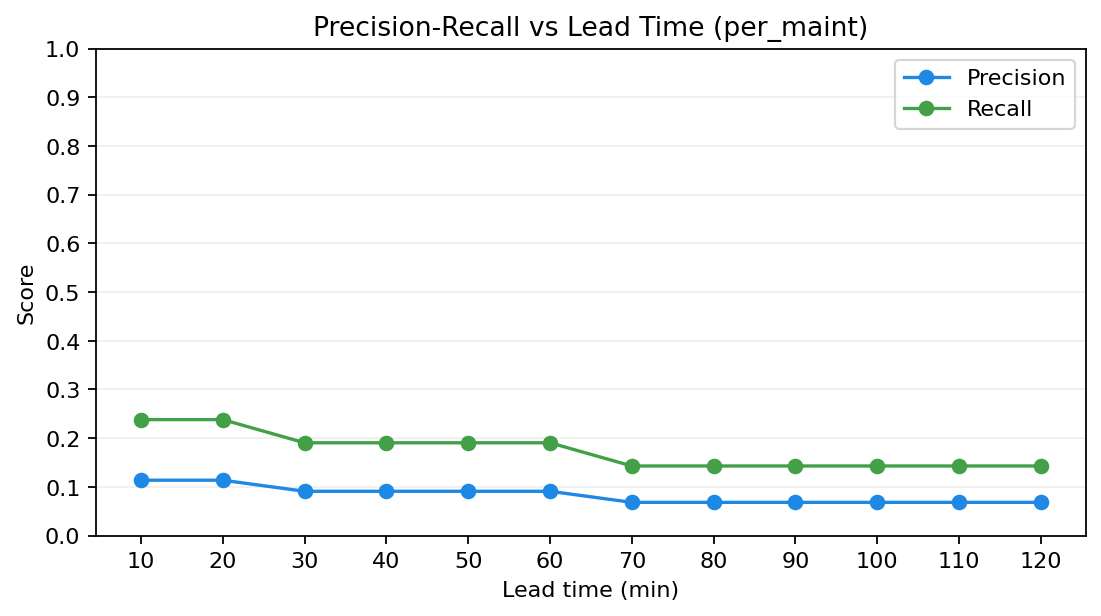
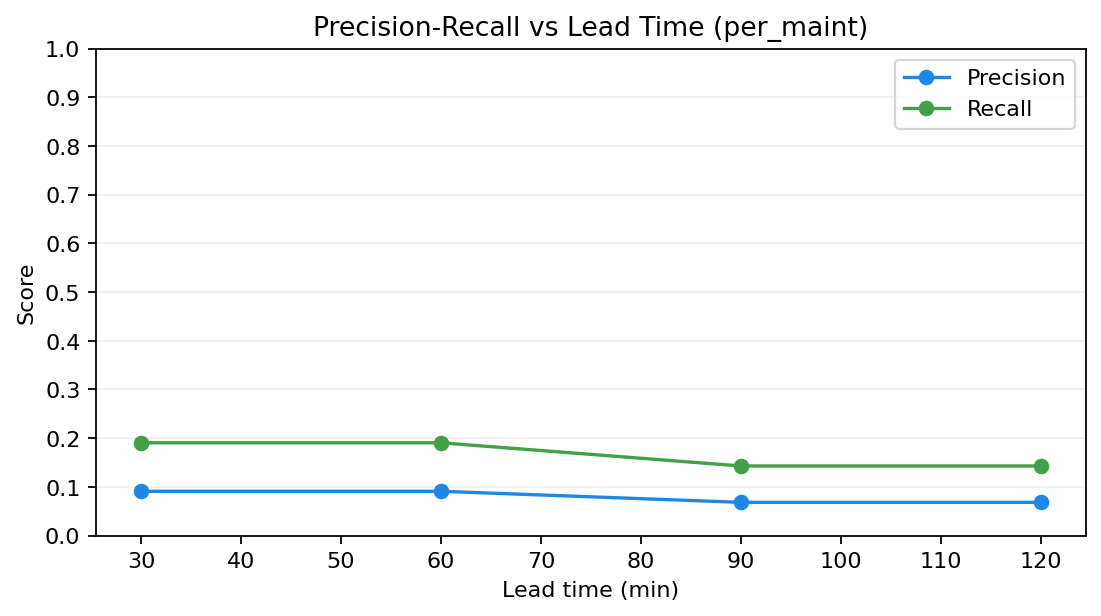
Add NAB score calculation: implement normalized anomaly benchmark scoring, integrate multiple profile evaluations (standard, low_fp, low_fn), update metrics logging, and adjust lead-time step size to 30 minutes.

diff --git a/metrics_event.py b/metrics_event.py
@@ -234,6 +234,83 @@ def calculate_mtia(predictions: pd.Series) -> Dict:
     }
 
 
+def calculate_nab_score(
+    predictions: pd.Series,
+    maintenance_windows: List[Tuple],
+    early_warning_minutes: int,
+    profile: str = "standard",
+) -> Dict:
+    """
+    Calculate NAB score using a strict pre-maintenance window:
+    [maintenance_start - early_warning, maintenance_start].
+    """
+    profiles = {
+        "standard": {"A_tp": 1.0, "A_fp": 0.11, "A_fn": 1.0},
+        "low_fp": {"A_tp": 1.0, "A_fp": 0.22, "A_fn": 1.0},
+        "low_fn": {"A_tp": 1.0, "A_fp": 0.11, "A_fn": 2.0},
+    }
+    if profile not in profiles:
+        raise ValueError(f"Unknown NAB profile: {profile!r}")
+    params = profiles[profile]
+
+    def sigmoid(x: float) -> float:
+        return 1.0 / (1.0 + np.exp(-x))
+
+    windows = _normalize_windows(maintenance_windows)
+    alarm_intervals = _alarm_intervals_from_mask(predictions.astype(bool))
+
+    total_score = 0.0
+    window_scores: List[float] = []
+    used_alarms: set[int] = set()
+
+    for maint_start, maint_end in windows:
+        warning_start = maint_start - pd.Timedelta(minutes=early_warning_minutes)
+        window_size = float(early_warning_minutes)
+
+        best_score = -params["A_fn"]
+        best_alarm_idx: Optional[int] = None
+
+        for idx, (alarm_start, alarm_end) in enumerate(alarm_intervals):
+            if idx in used_alarms:
+                continue
+            # Strict window overlap: [warning_start, maint_start]
+            if alarm_start <= maint_start and alarm_end >= warning_start:
+                detection_time = max(alarm_start, warning_start)
+                relative_pos = (
+                    (detection_time - warning_start).total_seconds() / 60.0 / window_size
+                )
+                score = params["A_tp"] * sigmoid(-5.0 * (relative_pos - 0.5))
+                if score > best_score:
+                    best_score = score
+                    best_alarm_idx = idx
+
+        if best_alarm_idx is not None:
+            used_alarms.add(best_alarm_idx)
+
+        total_score += best_score
+        window_scores.append(best_score)
+
+    # Penalize unused alarm intervals as FP
+    for idx in range(len(alarm_intervals)):
+        if idx not in used_alarms:
+            total_score -= params["A_fp"]
+
+    max_possible = len(windows) * params["A_tp"]
+    min_possible = -len(windows) * params["A_fn"] - len(alarm_intervals) * params["A_fp"]
+    if max_possible != min_possible:
+        normalized_score = 100.0 * (total_score - min_possible) / (max_possible - min_possible)
+    else:
+        normalized_score = 0.0
+
+    return {
+        "nab_score_raw": float(total_score),
+        "nab_score_normalized": float(normalized_score),
+        "profile": profile,
+        "window_scores": window_scores,
+        "num_fp": len(alarm_intervals) - len(used_alarms),
+    }
+
+
 def calculate_precision_recall_vs_leadtime(
     predictions: pd.Series,
     maintenance_windows: List[Tuple],
@@ -379,6 +456,21 @@ def evaluate_maintenance_prediction(
     mtia = calculate_mtia(predictions)
     results["mtia"] = mtia
 
+    nab_standard = calculate_nab_score(
+        predictions, maintenance_windows, early_warning_minutes, "standard"
+    )
+    nab_low_fp = calculate_nab_score(
+        predictions, maintenance_windows, early_warning_minutes, "low_fp"
+    )
+    nab_low_fn = calculate_nab_score(
+        predictions, maintenance_windows, early_warning_minutes, "low_fn"
+    )
+    results["nab"] = {
+        "standard": nab_standard,
+        "low_fp": nab_low_fp,
+        "low_fn": nab_low_fn,
+    }
+
     pr_leadtime = calculate_precision_recall_vs_leadtime(
         predictions, maintenance_windows, lead_times, early_warning_minutes
     )
@@ -410,6 +502,9 @@ def generate_results_table(results_list: List[Dict]) -> pd.DataFrame:
             else "N/A",
             "MTIA (min)": f"{r['mtia']['mtia_minutes']:.1f}"
             if r.get("mtia", {}).get("mtia_minutes") is not None
+            else "N/A",
+            "NAB Score": f"{r['nab']['standard']['nab_score_normalized']:.1f}"
+            if r.get("nab", {}).get("standard")
             else "N/A",
             "FAA": f"{r['first_alarm_accuracy']['first_alarm_accuracy']:.2f}"
             if r.get("first_alarm_accuracy", {}).get("first_alarm_accuracy") is not None

diff --git a/main.py b/main.py
@@ -100,7 +100,7 @@ RISK_EXCEEDANCE_QUANTILE: float = 0.95
 # Risk evaluation grid specification (start:stop:step).
 RISK_EVAL_GRID_SPEC: str = "0.30:0.90:0.10"
 # Lead-time step size for event-level curves (minutes).
-LEAD_STEP_MINUTES: int = 10
+LEAD_STEP_MINUTES: int = 30
 # Length of the post-maintenance training interval (in minutes) for the
 # per-maintenance regime. For each maintenance window W_j, the next model
 # (if any) is trained on the interval [end_j, end_j + POST_MAINT_TRAIN_MINUTES),
@@ -407,6 +407,7 @@ def _print_event_extra_metrics(label: str, event_results: dict) -> None:
     cov = event_results.get("coverage", {})
     mtia = event_results.get("mtia", {})
     pr = event_results.get("pr_leadtime", {})
+    nab = event_results.get("nab", {})
 
     if ttd.get("mean_ttd") is not None:
         print(
@@ -452,7 +453,19 @@ def _print_event_extra_metrics(label: str, event_results: dict) -> None:
             print(
                 f"  {lt} min: P={pr['precision'][i]:.3f}, "
                 f"R={pr['recall'][i]:.3f}, F1={pr['f1'][i]:.3f}"
-            ) 
+            )
+
+    if nab:
+        std = nab.get("standard", {}).get("nab_score_normalized")
+        low_fp = nab.get("low_fp", {}).get("nab_score_normalized")
+        low_fn = nab.get("low_fn", {}).get("nab_score_normalized")
+        if std is not None or low_fp is not None or low_fn is not None:
+            print(
+                "NAB: "
+                f"standard={std:.1f} "
+                f"low_fp={low_fp:.1f} "
+                f"low_fn={low_fn:.1f}"
+            )
 
 
 def _save_event_plots(event_results: dict, mode: str) -> None:
